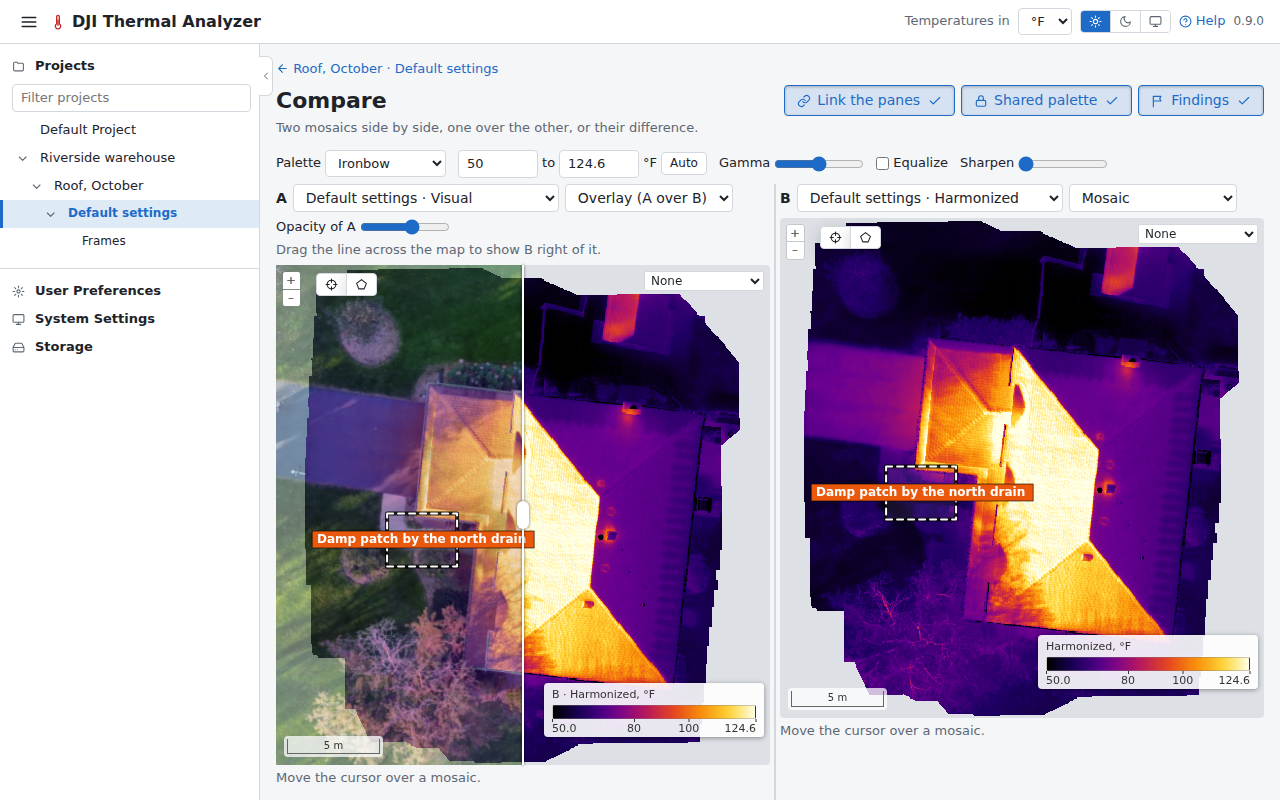
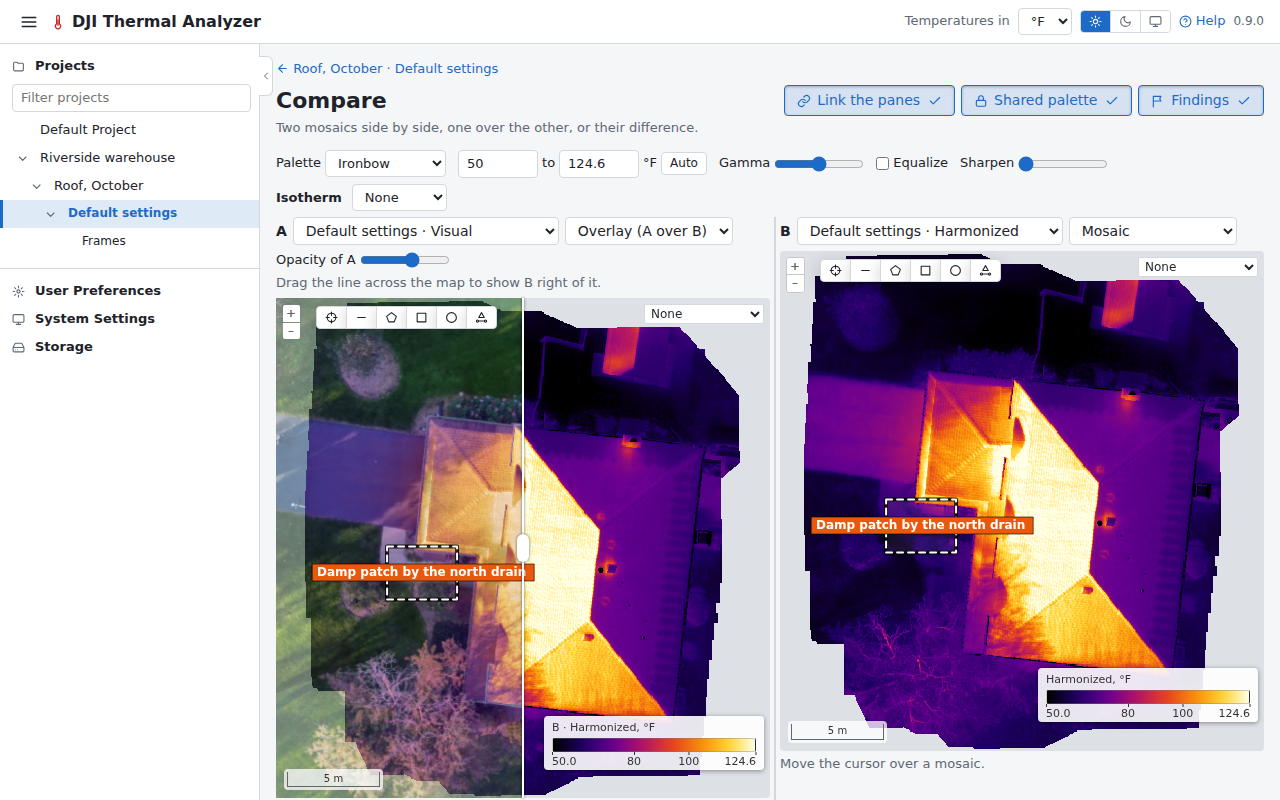
Docs: measuring on the compare page, with its card's screenshot

diff --git a/docs/guide/measuring.md b/docs/guide/measuring.md
@@ -34,6 +34,27 @@ along its line, as wide as a spot's disc, outlined in each frame.
 On a frame page, the Thermal/Visual/Both switch shows the frame's visual image in its place or beside it, with the
 same shapes and the cursor on it, and measures the thermal frame under them.
 
+## On the compare page
+
+![A line drawn on the compare page, measured on both mosaics, with A − B](../assets/screenshots/compare-measure.png)
+
+On the [compare page](compare.md) each pane's map has the same six tools. A shape drawn in either pane is measured on
+both mosaics, pane A's and pane B's, whatever each pane shows (its mosaic, the difference or the overlay), and drawn
+in both panes. Its card, on the pane it was drawn in, names the two mosaics and gives each figure in three columns,
+**A**, **B** and **A − B** (B's temperatures in A's unit when their units differ); a line's profile draws both
+curves. Where one mosaic has no data under the shape, or is a visual mosaic of its own with no temperatures, the card
+gives the other's alone and says why. A pane on a dataset's visual mosaic is measured on its temperatures, as its
+readout is.
+
+- **Save measurement** saves it on both datasets, with the name typed, so each one's viewer lists it in its Saved
+  measurements and its CSV (once, when both panes show the same mosaic).
+- **Source frames**, for a spot, an area or a Delta T, opens the frames that saw it in each mosaic, each with
+  **Save as finding**: see [Findings](findings.md#on-the-compare-page).
+
+The **Isotherm**, under the panes' palette, is shared by both panes: typed in your unit, it greys the pixels outside
+it in both temperature mosaics (not the difference or a visual mosaic), and the card gives the share inside it for
+both.
+
 ## On a visual mosaic
 
 The dataset of a [flight of visual images only](datasets.md#a-flight-of-visual-images-only) has no temperatures. In
@@ -60,7 +81,7 @@ It opens from:
 - **Source frames** on a measurement's card;
 - a spot or an area drawn (or a click) on the Source frame or Visual tab;
 - a saved measurement's;
-- on the compare page, a spot or an area drawn with the tools on a pane's map.
+- on the compare page, **Source frames** on the card of a spot, an area or a Delta T drawn on a pane's map.
 
 A [finding](findings.md) can be kept from it. Mosaics built before version 0.5.0 list only the frames they used:
 build them again to list every frame.

diff --git a/upcoming-changes.md b/upcoming-changes.md
@@ -125,9 +125,10 @@ The user's decisions (2026-11-11):
   the viewer; its Source frames button opens the window it opens today (each mosaic's frames, each with Save as
   finding), for a spot, an area or a Delta T.
 - The card's figures: B's results converted to A's unit when their units differ, A − B in its own column. A pane on a
-  visual mosaic has no temperatures: its column is left out (a card of two visual mosaics shows the size alone).
-- Save measurement: a temperature mosaic's pane only; when both panes show the same dataset (two tabs), both
-  measurements are saved there.
+  dataset's visual mosaic is measured on its as converted values, as its readout and source frames are; a visual
+  mosaic of its own has no temperatures: its column is left out (a card of two of them shows their sizes).
+- Save measurement: on the datasets of the card's columns; once when both panes show the same mosaic, twice (one per
+  tab) when they show two tabs of one dataset.
 - The isotherm: typed in the user's unit, sent in each conversion's; it starts from the top of the range shown, as the
   viewer's does.
 - Docs: `docs/guide/compare.md` and `measuring.md` (where the tools are), a screenshot of the card on the compare page;

diff --git a/CHANGELOG.md b/CHANGELOG.md
@@ -8,6 +8,11 @@ All notable changes are recorded here. The format follows
 
 ### Added
 
+- **Measuring on the compare page**: each pane's map has all six measuring tools (Spot, Line, Area, Box, Circle and
+  Delta T). A shape drawn in either pane is measured on both mosaics, in a card with the columns A, B and A − B (a
+  line's profile with both curves); **Save measurement** saves it on both datasets, and **Source frames** opens the
+  window a spot or an area opened before. An **Isotherm**, shared by both panes, greys their temperature mosaics
+  outside it and is measured in the card.
 - **Delta T**, a measuring tool after Circle on the viewer and the frame page: two clicks, and the card gives the
   temperature of the pixel under each spot (as the cursor reads it), ΔT (the second's minus the first's) and the length between them. It
   is saved, measured again with other parameters on a frame, kept as a finding (its frames those that saw a strip

diff --git a/docs/guide/compare.md b/docs/guide/compare.md
@@ -16,6 +16,7 @@ project's listed first. Open it with **Compare with…** in the viewer's header 
 
 The header's **Link the panes**, **Shared palette** and **Findings** stay pressed in, with a check, while they are on.
 
-Each pane draws its flights' [findings](findings.md#on-the-compare-page), and a spot or an area drawn with the tools
-on a pane's map is [measured](measuring.md) there, opens its [source frames](measuring.md#source-frames), or is kept
-as a finding.
+Each pane draws its flights' [findings](findings.md#on-the-compare-page). The measuring tools on each pane's map (Spot,
+Line, Area, Box, Circle and Delta T) measure a shape on both mosaics at once, with A − B, in a card that saves it on
+both datasets and opens its [source frames](measuring.md#source-frames); an isotherm is shared by both panes. See
+[Measuring › On the compare page](measuring.md#on-the-compare-page).

diff --git a/docs/guide/findings.md b/docs/guide/findings.md
@@ -25,8 +25,8 @@ one switch, or one by one, and a link keeps which are shown and which is open.
 ## On the compare page
 
 On the [compare page](compare.md) each pane draws its flights' findings, opened with a click or a link and changed
-there. A spot or an area drawn in a pane is kept on the flight of its mosaic (for a difference, the mosaic picked in
-the window).
+there. A spot, an area or a Delta T drawn in a pane is kept from its card's **Source frames** window, on the flight of
+the mosaic picked in the window (each mosaic the shape is read on has its own frames and **Save as finding**).
 
 ## Elsewhere
 
